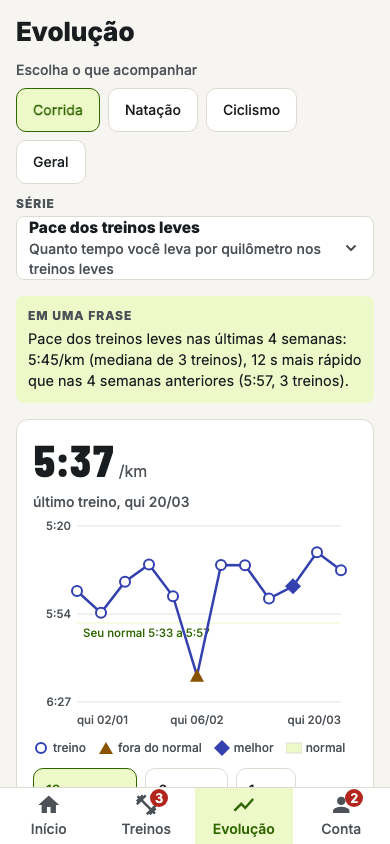
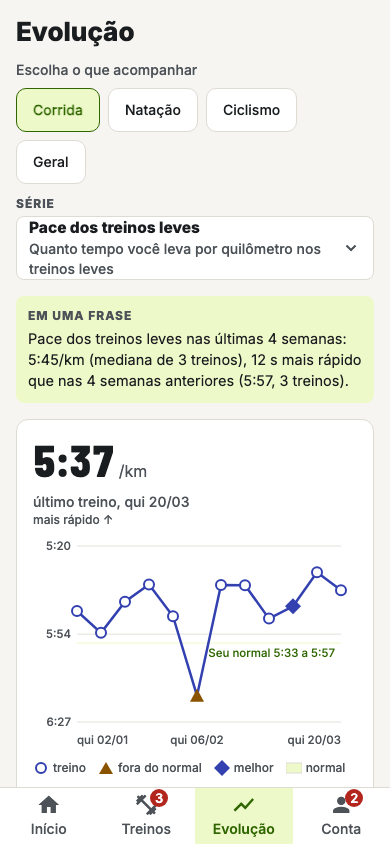
App e docs: 'mais rápido ↑', rótulo do normal à direita, versão realista na API falsa, capturas com o detalhe e docs de abertura e meta-2 (#582)

Changed region(s): [[0.0923, 0.6469, 0.8923, 0.955], [0.7385, 0.8318, 0.8923, 0.9242], [0.0923, 0.5853, 0.2462, 0.6469]]

diff --git a/apps/mobile/src/componentes/GraficoSerie.tsx b/apps/mobile/src/componentes/GraficoSerie.tsx
@@ -89,6 +89,11 @@ export function GraficoSerie({ serie, selecionado, aoSelecionar }: Props) {
 
   return (
     <View testID="grafico-serie">
+      {eixo?.invertido && (
+        <Text testID="mais-rapido" style={styles.dica}>
+          mais rápido ↑
+        </Text>
+      )}
       <View
         accessible
         accessibilityRole="image"
@@ -108,7 +113,7 @@ export function GraficoSerie({ serie, selecionado, aoSelecionar }: Props) {
           {ref && eixo && (
             <G testID="faixa-normal">
               <Rect x={MARGEM.esq} y={y(ref.maximo)} width={largura - MARGEM.esq - MARGEM.dir} height={Math.max(y(ref.minimo) - y(ref.maximo), 1)} fill={cor["marca-suave"]} />
-              <SvgTexto x={MARGEM.esq + 6} y={Math.max(y(ref.maximo) + 14, MARGEM.topo + 12)} fontSize={11.5} fontFamily={familia.medio} fill={cor.link}>
+              <SvgTexto x={largura - MARGEM.dir - 6} y={Math.max(y(ref.maximo) + 14, MARGEM.topo + 12)} fontSize={11.5} fontFamily={familia.medio} fill={cor.link} textAnchor="end">
                 {ref.texto}
               </SvgTexto>
             </G>
@@ -197,6 +202,7 @@ export function GraficoSerie({ serie, selecionado, aoSelecionar }: Props) {
 
 function criarEstilos({ cor }: Tema) {
   return StyleSheet.create({
+    dica: { ...fonte.eixo, color: cor["texto-2"], marginBottom: espaco[1] },
     legenda: { flexDirection: "row", flexWrap: "wrap", columnGap: espaco[3], rowGap: espaco[1], marginTop: espaco[2] },
     legendaItem: { flexDirection: "row", alignItems: "center", gap: espaco[1] },
     legendaTexto: { ...fonte.eixo, color: cor["texto-2"] },

diff --git a/apps/mobile/__tests__/index.test.tsx b/apps/mobile/__tests__/index.test.tsx
@@ -196,6 +196,24 @@ describe("Evolução v1: o gráfico", () => {
     for (const t of ["treino", "fora do normal", "melhor", "normal"]) expect(screen.getByText(t, { includeHiddenElements: true })).toBeTruthy();
   });
 
+  it("pace (eixo invertido) diz 'mais rápido ↑'; volume não", async () => {
+    const { unmount } = await render(tela(fetchEvolucao()));
+    expect(await screen.findByTestId("mais-rapido")).toHaveTextContent("mais rápido ↑");
+    await unmount();
+    mockMemoria.set("1", "corrida.volume_km");
+    await render(tela(fetchEvolucao()));
+    await screen.findByTestId("grafico-serie");
+    expect(screen.queryByTestId("mais-rapido")).toBeNull();
+  });
+
+  it("legenda da série de barras: só 'semana'", async () => {
+    mockMemoria.set("1", "corrida.volume_km");
+    await render(tela(fetchEvolucao()));
+    await screen.findByTestId("grafico-serie");
+    expect(screen.getByText("semana", { includeHiddenElements: true })).toBeTruthy();
+    for (const t of ["treino", "fora do normal", "melhor"]) expect(screen.queryByText(t, { includeHiddenElements: true })).toBeNull();
+  });
+
   it("os marcos do eixo são os textos da API", async () => {
     await render(tela(fetchEvolucao()));
     await screen.findByTestId("grafico-serie");

diff --git a/docs/produto/meta-2-como-rodar.md b/docs/produto/meta-2-como-rodar.md
@@ -93,7 +93,7 @@ O passo 7 (ver a tela) foi verificado na web pela Bia (#72).
    Com `CI=1` o Expo não recarrega sozinho; sem `CI`, abre o menu interativo.
    **Não commite o `apps/mobile/tsconfig.json`:** o `expo start` o reescreve (reformata e tira `.expo/types/**/*.ts` e
    `expo-env.d.ts` do `include`). Descarte com `git checkout apps/mobile/tsconfig.json`.
-7. **Ver a tela** em `http://localhost:8081`: "Evolução dos tiros de 1 km" com as 2 sessões (04/03/25 e 11/03/25).
+7. **Ver a tela** em `http://localhost:8081`, aba **Evolução**: escolha **Corrida** e, no seletor de séries, **Melhor tiro de 1 km** (as 2 sessões, 04/03/25 e 11/03/25, aparecem como pontos do gráfico; se a série vier indisponível, ela fica em cinza com o motivo escrito).
    Valores: 6 x 1 km, `4:11`, 170,3 bpm; 5 x 1 km, `3:57`, 171,8 bpm ([[produto/meta-1-como-reproduzir]]).
    **Verificado na #72 (Bia), na web:** a tela mostra as 2 sessões, os rótulos de pace (`3:50`, `4:00` e `4:10`, passo de 10 s/km desde a #87) e de FC
    (169 a 173), todos vindos do bloco `eixos` da API, o clique no ponto abre o detalhe e o rodapé diz `cálculo: tiros_1km@5`.

diff --git a/docs/modulos/mobile.md b/docs/modulos/mobile.md
@@ -8,7 +8,7 @@ links: [[design/identidade-visual-v2]], [[design/telas/feedback]], [[decisoes/00
 # Módulo: mobile
 
 ## Para que serve
-App em React Native com Expo (TypeScript, Expo Router) para iOS, Android e web. Hoje tem a tela "Evolução" (séries por modalidade, Evolução v1) ligada à API (botão "Enviar arquivo FIT", gráfico de dois painéis, lista das sessões e rodapé) e a leitura da configuração. Com login por e-mail e senha desde a #502 (ADR 0016) e sem deploy: roda local, na web e no Expo Go.
+App em React Native com Expo (TypeScript, Expo Router) para iOS, Android e web. Hoje tem a tela "Evolução" (séries por modalidade, Evolução v1) ligada à API (botão "Enviar arquivo FIT", seletor de séries, gráfico com a faixa do normal e a frase, lista dos valores e rodapé) e a leitura da configuração. Com login por e-mail e senha desde a #502 (ADR 0016) e sem deploy: roda local, na web e no Expo Go.
 
 O app não calcula pace: todo `m:ss` virá da [[modulos/api]].
 
